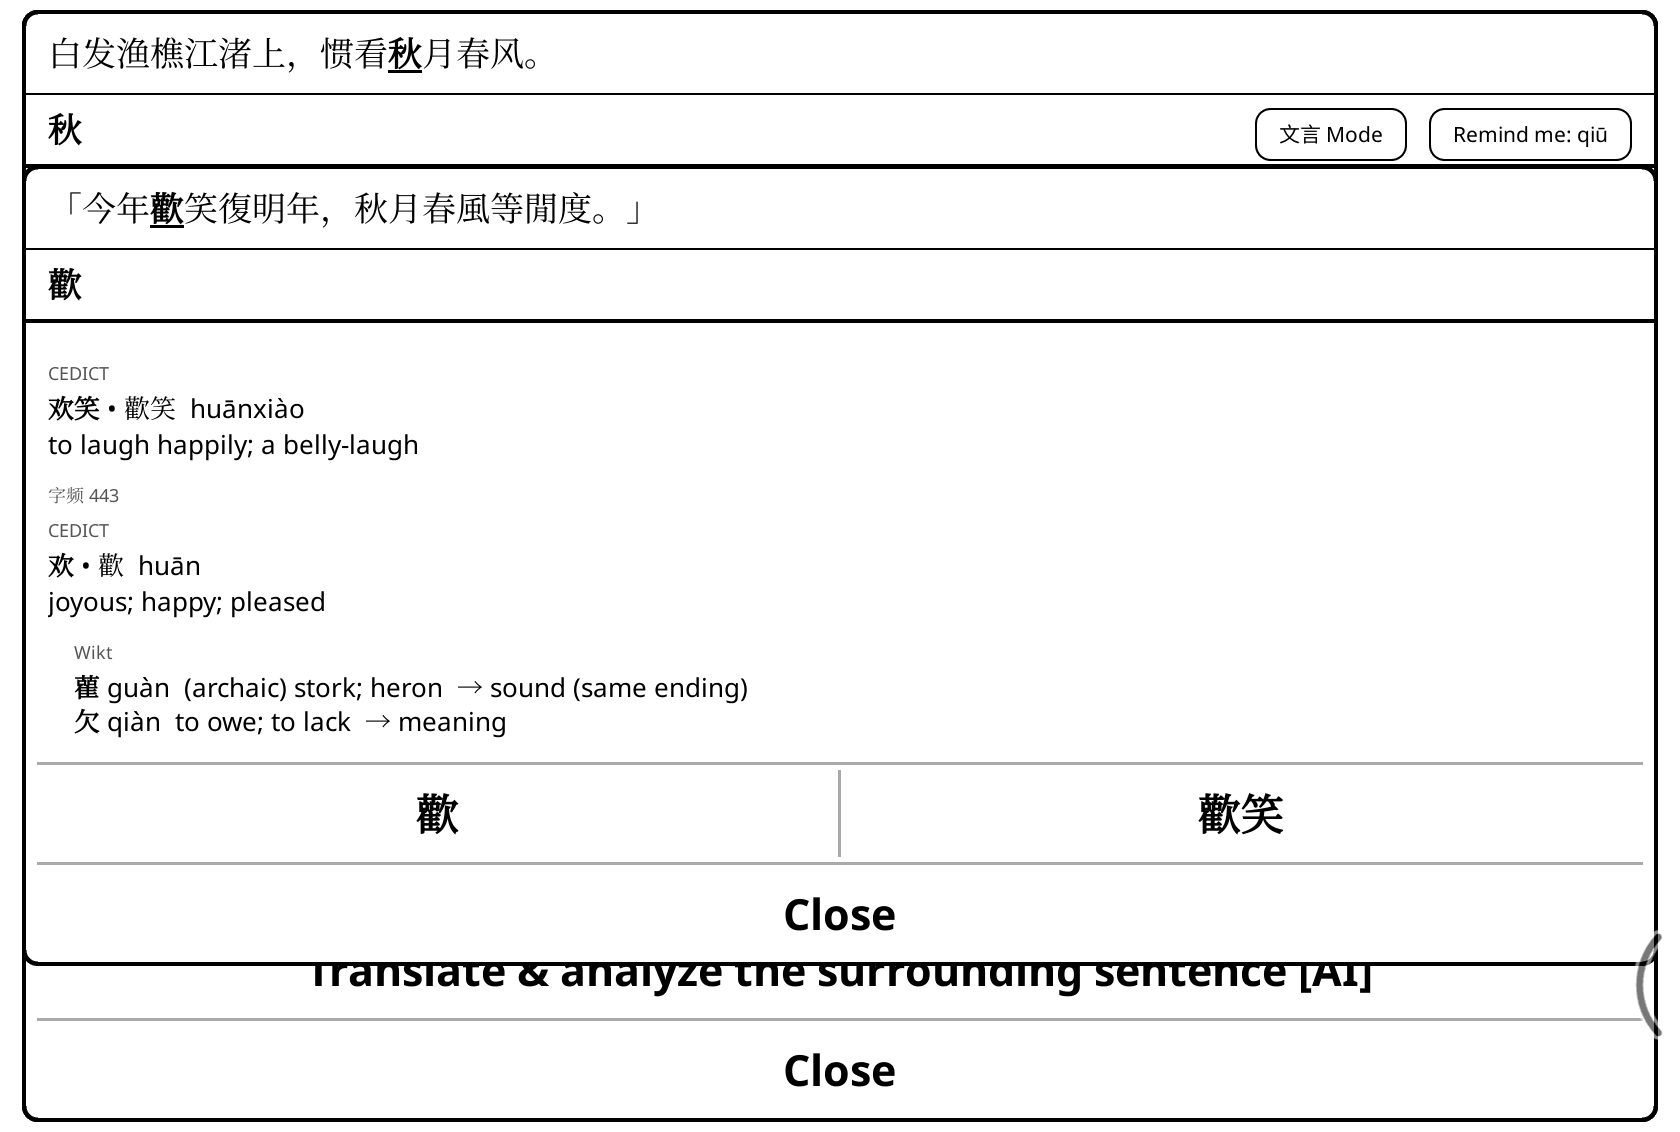
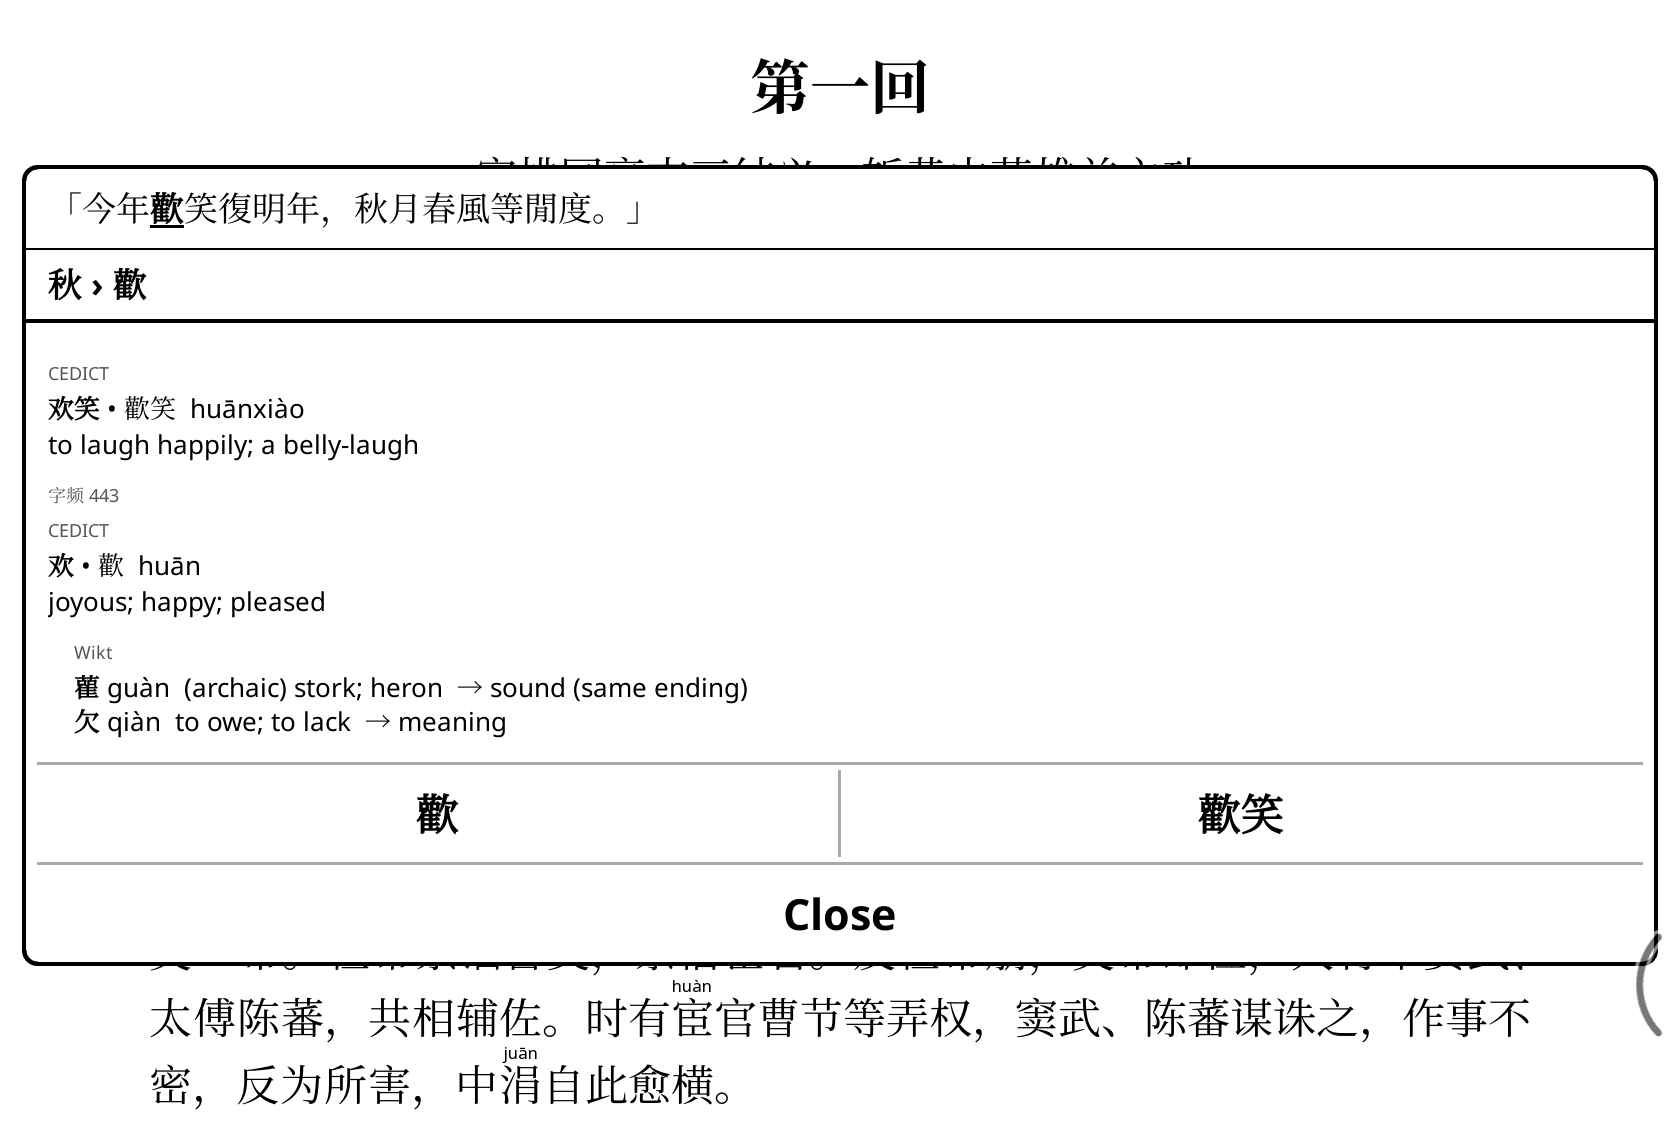
#82: retake docs/nested.png with the breadcrumb title; alt text
Claude-Session: https://claude.ai/code/session_01WPaZhf9YXX6ggEnBzo9Vxc

diff --git a/README.md b/README.md
@@ -50,7 +50,7 @@ Kobo, Kindle, PocketBook, and Android devices such as Boox.
 </tr>
 <tr>
 <td><img src="docs/classical.png" alt="Popup for 之 in 三国演义's 窦武、陈蕃谋诛之: the line 时有宦官曹节等弄权，窦武、陈蕃谋诛之，作事不密，反为所害，中涓自此愈横。 with 之 marked; the title bar, 之 on the left and the buttons 文言 Mode ✓ and Remind me: zhī on the right; first 字频 69, then the label 文言 on a row of its own and the Classical entry, its senses numbered: 之, 1. him; her; them; that, 2. it (object pronoun), 3. genitive marker; of (possession), 4. attributive marker…, 5. particle infixed in a subject-predicate construction…, 6. to go, 7. to arrive; to go to, and on to 18, with a scroll bar; then the buttons 之, Translate & analyze the surrounding sentence [AI] and Close"><br><a href="#classical-mode"><b>Classical mode</b></a>: one tap on 文言 Mode puts the senses classical texts use first, here 之 as <i>him; her; them</i> in 窦武、陈蕃谋诛之</td>
-<td><img src="docs/nested.png" alt="Popup for 秋 in the 临江仙, its title bar with the buttons 文言 Mode and Remind me: qiū, and on top of it the popup for 歡, tapped in MOE's quotation of 〈琵琶行〉: its line at the top is 「今年歡笑復明年，秋月春風等閒度。」 with 歡 marked and no buttons in its title bar, then, labelled CEDICT, 欢笑 • 歡笑 huānxiào; then 字频 443, the label CEDICT, 欢 • 歡 huān and its parts 雚 and 欠 labelled Wikt; the buttons 歡 and 歡笑, then Close at the bottom (no Translate in a popup opened from a popup)"><br><a href="#tapping-a-character-in-the-popup"><b>Read the dictionary by tapping</b></a>: 歡, tapped in MOE's quotation of 〈琵琶行〉, opens its own popup on top</td>
+<td><img src="docs/nested.png" alt="The popup for 歡, tapped in MOE's quotation of 〈琵琶行〉 in the popup for 秋 in the 临江仙, which it replaces on the screen: its line at the top is 「今年歡笑復明年，秋月春風等閒度。」 with 歡 marked, its title 秋 › 歡 with no buttons, then, labelled CEDICT, 欢笑 • 歡笑 huānxiào; then 字频 443, the label CEDICT, 欢 • 歡 huān and its parts 雚 and 欠 labelled Wikt; the buttons 歡 and 歡笑, then Close at the bottom (no Translate in a popup opened from a popup)"><br><a href="#tapping-a-character-in-the-popup"><b>Read the dictionary by tapping</b></a>: 歡, tapped in MOE's quotation of 〈琵琶行〉, opens its own popup in place of the first, titled 秋 › 歡</td>
 </tr>
 <tr>
 <td><img src="docs/labels.png" alt="Popup for 秋 in the 临江仙's 惯看秋月春风: at the top the line 白发渔樵江渚上，惯看秋月春风。 with 秋 marked; the 文言 Mode and reading-mark buttons in the title bar; first 秋月 labelled Wikt; then 字频 1,442, the label CEDICT on a row of its own, 秋 • 鞦 qiū (used in 鞦韆|秋千 qiūqiān) and its parts 禾 and 火 labelled MMAH; last, 秋月春风 • 秋月春風 labelled 國語辭典 with MOE's definition in its own traditional characters, in larger type, quoting 白居易's 〈琵琶行〉: 「今年歡笑復明年，秋月春風等閒度。」; a 成语 Origin &amp; Usage button"><br><a href="#fallback-dictionaries"><b>Several dictionaries, each labelled</b></a>: CC-CEDICT for 秋, Wiktionary for 秋月, and MOE (optional) for 秋月春风, in larger type</td>
@@ -429,7 +429,7 @@ reading the reference gives first. Nothing else in the popup is tappable: not th
 <details>
 <summary>How popups on popups work</summary>
 
-![Popup for 秋 in the 临江仙, its title bar with the buttons 文言 Mode and Remind me: qiū, and on top of it the popup for 歡, tapped in MOE's quotation of 〈琵琶行〉: its line at the top is 「今年歡笑復明年，秋月春風等閒度。」 with 歡 marked and no buttons in its title bar, then, labelled CEDICT, 欢笑 • 歡笑 huānxiào; then 字频 443, the label CEDICT, 欢 • 歡 huān and its parts 雚 and 欠 labelled Wikt; the buttons 歡 and 歡笑, then Close at the bottom (no Translate in a popup opened from a popup)](docs/nested.png)
+![The popup for 歡, tapped in MOE's quotation of 〈琵琶行〉 in the popup for 秋 in the 临江仙, which it replaces on the screen: its line at the top is 「今年歡笑復明年，秋月春風等閒度。」 with 歡 marked, its title 秋 › 歡 with no buttons, then, labelled CEDICT, 欢笑 • 歡笑 huānxiào; then 字频 443, the label CEDICT, 欢 • 歡 huān and its parts 雚 and 欠 labelled Wikt; the buttons 歡 and 歡笑, then Close at the bottom (no Translate in a popup opened from a popup)](docs/nested.png)
 
 - **Its text is the popup's, not the book's.** The line at the top is the sentence around the
   character in the popup text: cut at 。！？；, a line break, or a closing quote after one of
